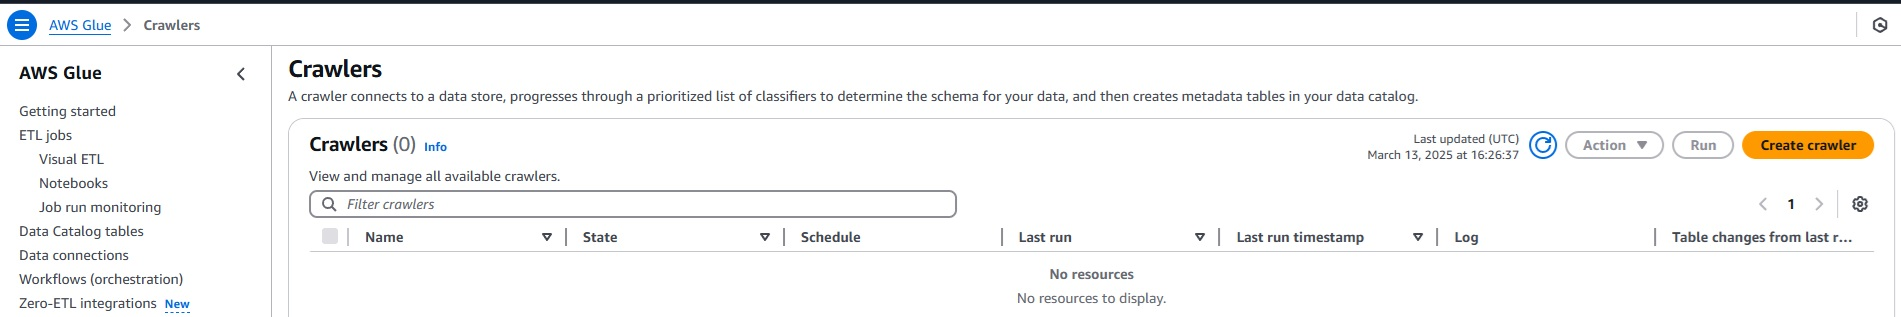
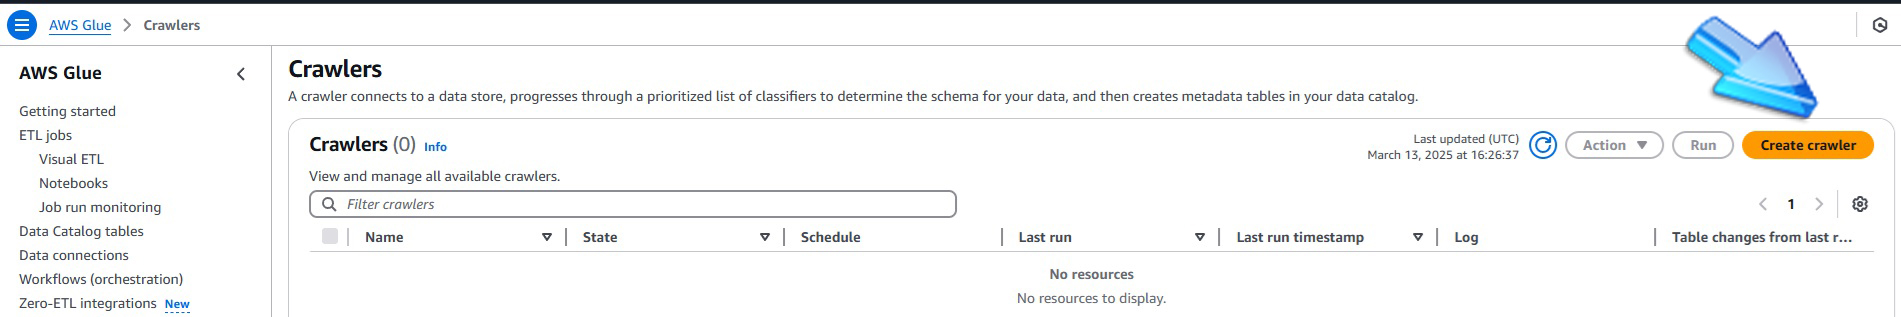
Update AWS Glue documentation with new crawler image and enhance instructions

Changed region(s): [[0.869, 0.0568, 0.9621, 0.3975], [0.9311, 0.4543, 0.9932, 0.4826]]

diff --git a/thisisthelab.md b/thisisthelab.md
@@ -77,13 +77,13 @@
 
 ###### ![Brazil](https://github.com/Acheroniano/flag-icon/blob/master/png/16/country-4x3/br.png "Brazil") 
 ##### ** Clique no botão upload para escolher o arquivo [![Files badge](https://img.shields.io/badge/customer.csv-%23000000?logo=Files&logoColor=yellow&labelColor=blue)](https://github.com/Acheroniano/aws-glue-crawlers-deepseek/blob/main/customer.csv) **
-##### - depois que escolher o arquivo e também após fazer o upload, algumas informações relevantes sobre ele aparecem na tela.
-##### - abra o bucket *bucket-for-csv-rawdata-2025-03* e confira o arquivo [![Files badge](https://img.shields.io/badge/customer.csv-%23000000?logo=Files&logoColor=yellow&labelColor=blue)](https://github.com/Acheroniano/aws-glue-crawlers-deepseek/blob/main/customer.csv) salvo no bucket.
+###### - depois que escolher o arquivo e também após fazer o upload, algumas informações relevantes sobre ele aparecem na tela.
+###### - abra o bucket *bucket-for-csv-rawdata-2025-03* e confira o arquivo [![Files badge](https://img.shields.io/badge/customer.csv-%23000000?logo=Files&logoColor=yellow&labelColor=blue)](https://github.com/Acheroniano/aws-glue-crawlers-deepseek/blob/main/customer.csv) salvo no bucket.
 
 ###### ![United States](https://github.com/Acheroniano/flag-icon/blob/master/png/16/country-4x3/us.png "United States") 
 ##### ** Click on upload button to choose the file [![Files badge](https://img.shields.io/badge/customer.csv-%23000000?logo=Files&logoColor=yellow&labelColor=blue)](https://github.com/Acheroniano/aws-glue-crawlers-deepseek/blob/main/customer.csv) **
-##### - after choosing the file and also after uploading, some relevant information appears on the screen.
-##### - open the bucket *bucket-for-csv-rawdata-2025-03* and check the file [![Files badge](https://img.shields.io/badge/customer.csv-%23000000?logo=Files&logoColor=yellow&labelColor=blue)](https://github.com/Acheroniano/aws-glue-crawlers-deepseek/blob/main/customer.csv) saved in the bucket.
+###### - after choosing the file and also after uploading, some relevant information appears on the screen.
+###### - open the bucket *bucket-for-csv-rawdata-2025-03* and check the file [![Files badge](https://img.shields.io/badge/customer.csv-%23000000?logo=Files&logoColor=yellow&labelColor=blue)](https://github.com/Acheroniano/aws-glue-crawlers-deepseek/blob/main/customer.csv) saved in the bucket.
 
 ![S3 Upload customer.csv](./images/5a-S3RawDataUpload.jpg)
 ![S3 Upload customer.csv info](./images/6a-S3CustomerCSV.jpg)
@@ -102,5 +102,15 @@
 
 ![AWS Glue](./images/9a-AWSGlueCalling.jpg)
 ![AWS Glue Crawlers](./images/10a-AWSGlueCrawlerCalling.jpg)
+
+# 3.1 - AWS Glue - Create Crawler
+
+###### ![Brazil](https://github.com/Acheroniano/flag-icon/blob/master/png/16/country-4x3/br.png "Brazil") 
+###### Clique em CREATE CRAWLER
+
+###### ![United States](https://github.com/Acheroniano/flag-icon/blob/master/png/16/country-4x3/us.png "United States") 
+###### Click in CREATE CRAWLER
+
+![AWS Glue Create Crawler](./images/11a-AWSGlueCrawlerScreen.jpg)
 
 
